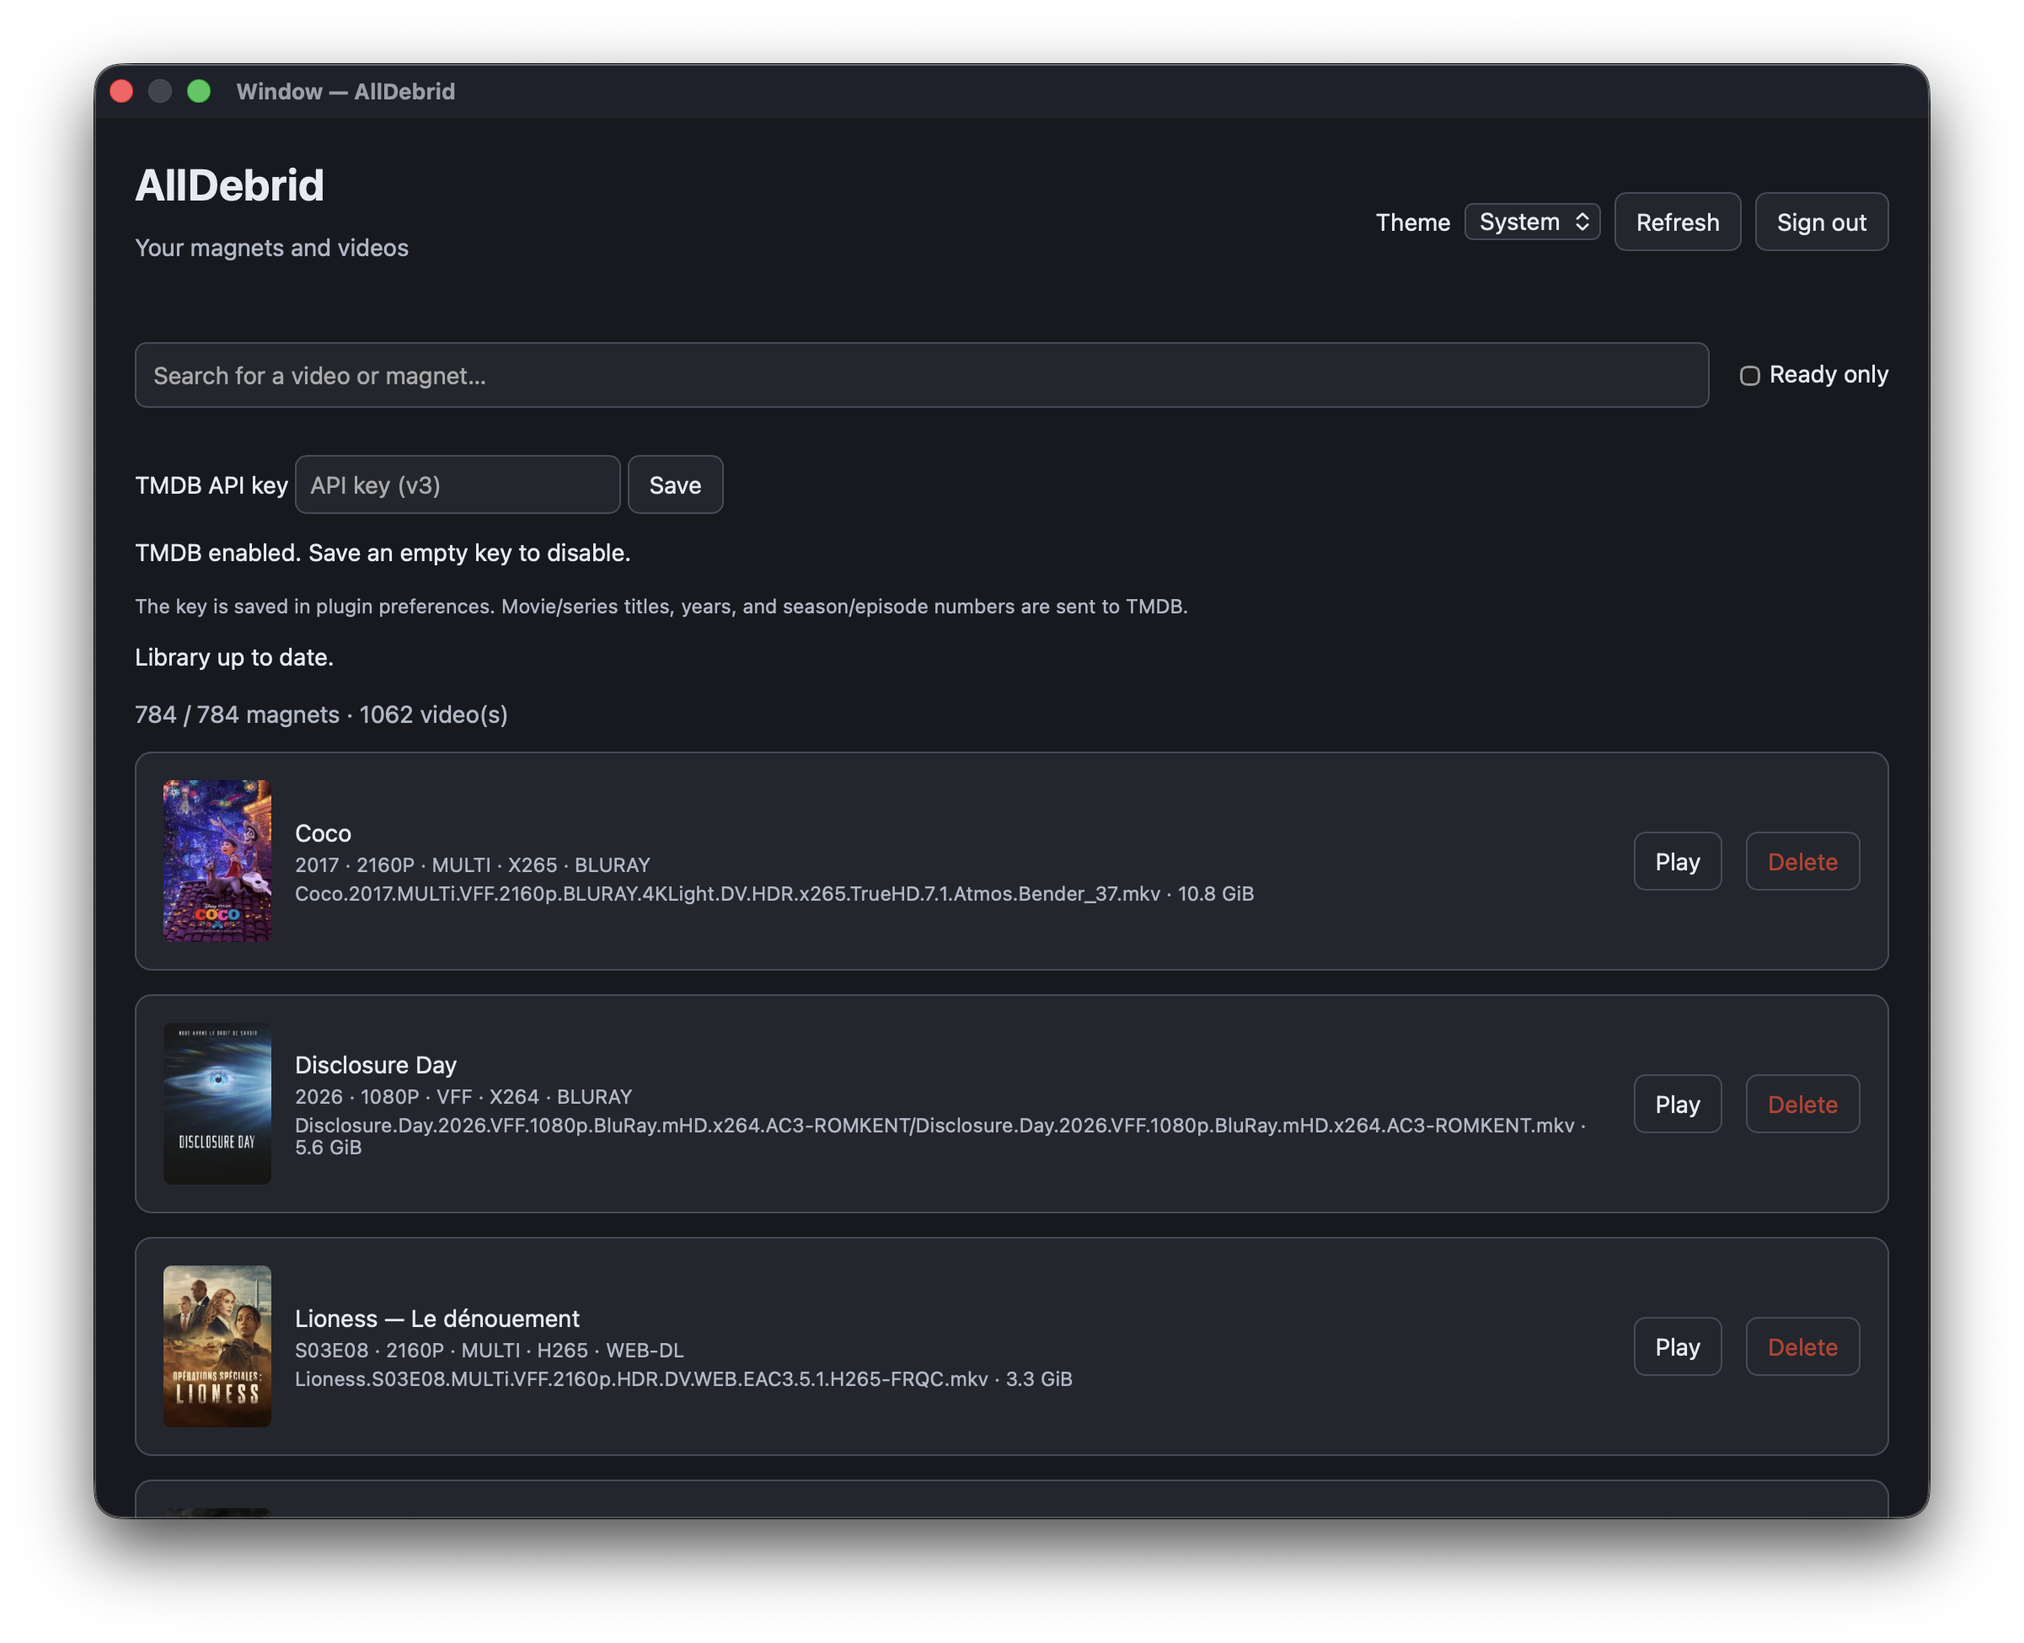
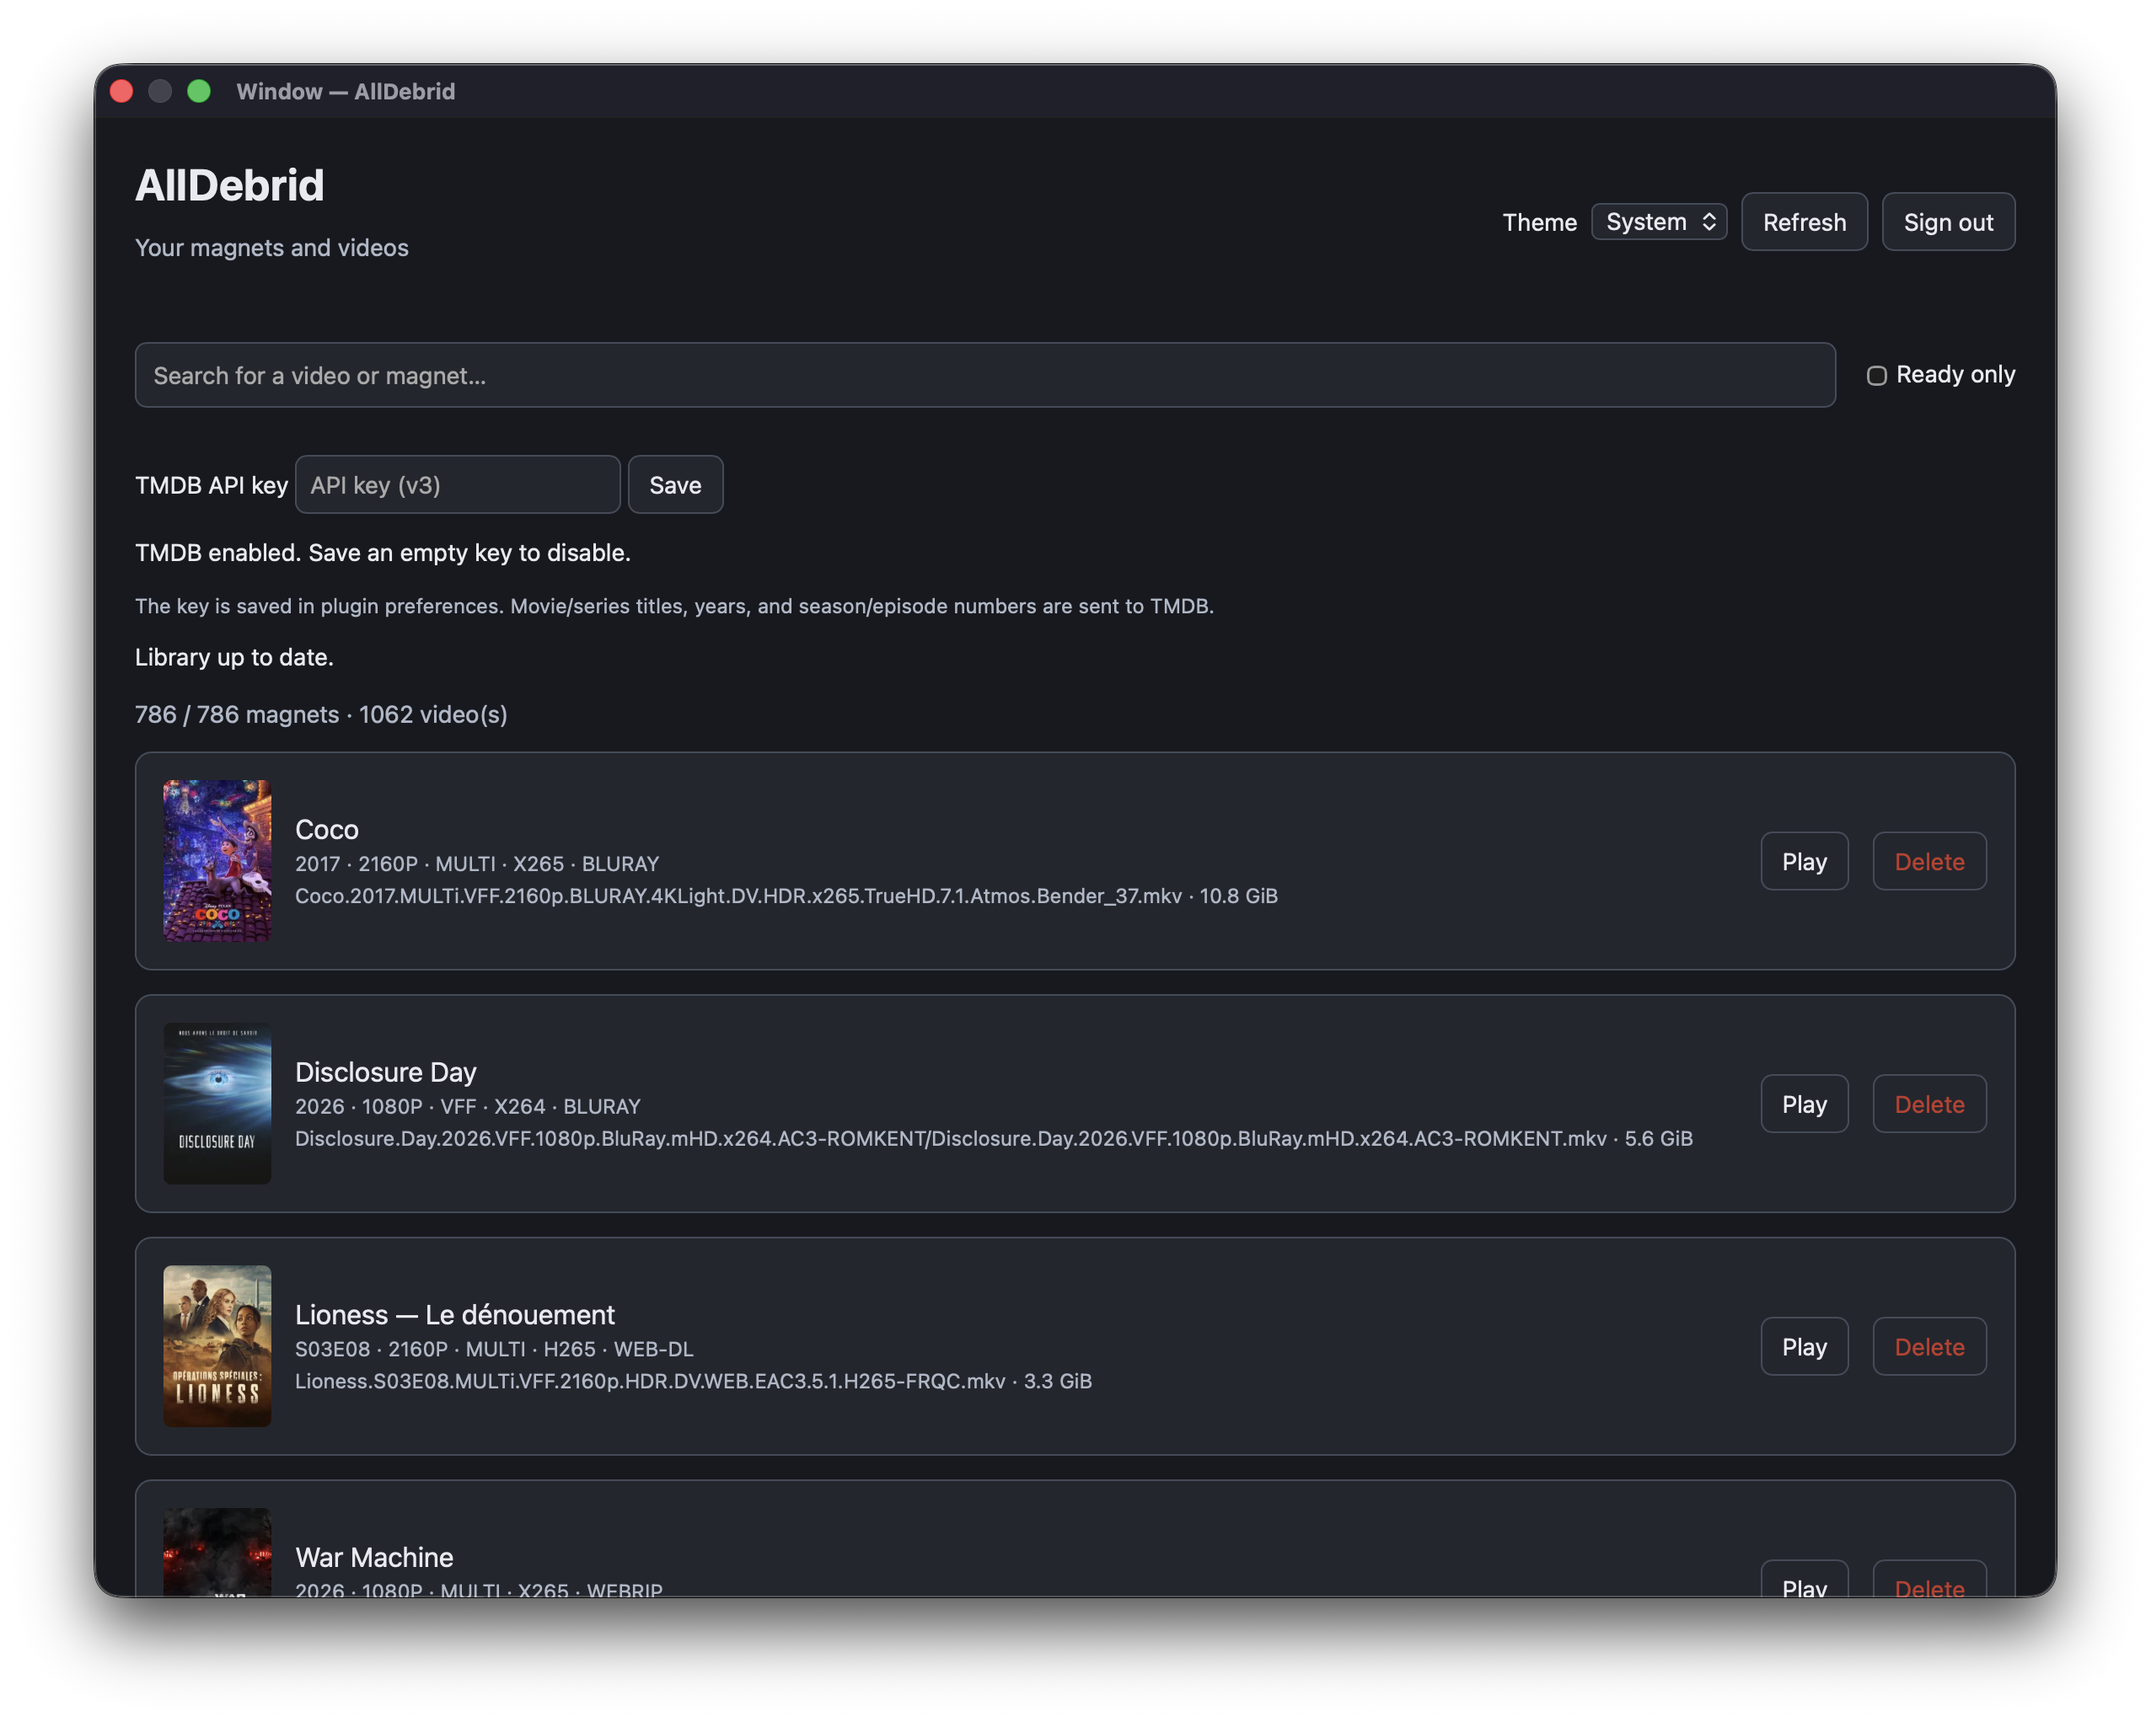
docs: simplify readme and refresh library screenshot

Changed region(s): [[0.0312, 0.0308, 0.9679, 0.9538], [0.8118, 0.7692, 0.843, 0.8308], [0.8118, 0.6154, 0.843, 0.6769]]

diff --git a/README.md b/README.md
@@ -1,57 +1,65 @@
 # AllDebrid for IINA
 
-A library with optional TMDB titles, episode names, and movie/series posters: all magnets in your account, videos in nested folders, search, a ready-only filter, file sizes, and playback in a new IINA window.
+Browse your AllDebrid videos and play them in IINA. Includes search, a ready-only filter, file details, and optional TMDB titles and posters.
 
 ![AllDebrid library in IINA](.github/alldebrid-library.png)
 
 ## Installation
 
-Requires IINA 1.4.0 or later on macOS with plugins enabled.
-
-1. Run `npm ci` then `npm run pack` from the repository directory (Node.js 24+ and Python 3 required). Open `dist/alldebrid.iinaplgz` to install it, or link `dist/plugin` with the IINA CLI below.
-2. Open **Plugins → AllDebrid → AllDebrid Library…**.
-3. Click **Sign in to AllDebrid**, then open the displayed link and confirm the PIN in your browser.
-4. The library loads automatically. Videos are displayed directly; click **Play**.
-
-**Refresh** loads a full status snapshot on first use, then merges incremental changes (including deletions) using AllDebrid’s session/counter protocol. A server-requested full sync replaces the snapshot. Each new sign-in starts a fresh sync session. Refresh caches file listings for unchanged ready magnets and loads new or changed listings in batches of 500. Transfer statistics do not invalidate cached files; other status changes do. Deleted or non-ready magnets lose their cached files. Full syncs preserve matching cached listings. The cache lasts only for the current sign-in session. Failed listings are retried on the next refresh. Magnets that are not ready remain visible but cannot be played. Search ignores case and accents and matches every entered word across magnet names, video paths, and extracted metadata. Video titles, year, season/episode, resolution, language, codec, and source are detected locally from filenames when recognizable; the original path stays visible. Optional titles and posters are retrieved from TMDB using the extracted title and year. TV episodes use the series title and poster, plus the episode name when available. Videos are identified by their file extensions; archives and ISO images are not scanned. The plugin does not add or restart magnets. **Delete** removes one video from the library. Individual removals are saved locally in plugin preferences and survive refresh, sign-out, and restarts. AllDebrid does not support deleting individual files: the magnet stays on AllDebrid until its last remaining video is deleted, then the plugin deletes the entire magnet (including any non-video files). Search and filters do not affect which videos count toward this deletion. If AllDebrid deletion fails, the last video remains available for retry.
-
-Your account must allow access to magnets and link unlocking. A direct link is generated for each playback request; delayed links are polled for up to ten minutes. Playback depends on file availability and the formats supported by IINA.
-
-**Theme** offers **System**, **Light**, and **Dark**. System follows the macOS appearance. Your choice is saved in the plugin preferences and preserved when signing out.
-
-## TMDB titles and posters
-
-Enter your TMDB **API key (v3)** in the library and click **Save**. Get a key from your [TMDB account settings](https://www.themoviedb.org/settings/api). Saving an empty key disables TMDB metadata and posters. The key is stored in plugin preferences, not in a secure keychain, and survives sign-out and restarts.
-
-A placeholder reserves the poster space while metadata and images load. The first TMDB search result is used, filtered by year when available. French titles are requested; the filename title is kept if no title is available. Series searches are shared across episodes, with a separate lookup for each episode name. Missing episodes keep the series title and poster. Filename parsing and matches may be imperfect. Results, including missing posters, are cached in memory; failed requests are retried on Refresh. TMDB errors do not block playback. Sign-out clears cached poster results.
-
-## Data and privacy
-
-The API key obtained through PIN authentication is kept **in memory for the current IINA session**. Sign in again after restarting IINA. **Sign out** clears the key and the displayed library and cancels pending operations; it does not revoke the key on AllDebrid. To revoke it, visit https://alldebrid.com/apikeys/.
-
-No telemetry. When enabled, TMDB receives movie/series titles and years, season/episode numbers, and poster images load from its image host. File listings and AllDebrid file links are kept only in memory for the current session. AllDebrid API requests go only to AllDebrid; IINA then streams the video from the direct link's host. IINA may retain playback URLs in its normal history.
-
-## Development
-
-Sources live in `src/` and use TypeScript. Vite builds CommonJS entries for IINA and a standalone browser script for the library window, targeting Safari 14. HTML and CSS are copied into `dist/plugin`. TypeScript and Biome extend [@yboyer/config](https://github.com/yboyer/config), with module and DOM settings adapted to this plugin.
-
-Filename parsing uses the npm dependency `parse-torrent-title` 3.0.1 (MIT). Vite bundles it into the plugin; no npm installation is needed by the end user. Its license is included in the archive. Local handlers also recognize VFQ, VFF, VF, VO, and AV1.
+Requires **IINA 1.4.0+** on macOS with plugins enabled, **Node.js 24+**, and **Python 3**.
 
 ```sh
 npm ci
-npm run lint       # Biome checks and formatting
-npm run typecheck  # TypeScript validation for sources and tests
-npm test           # Build and run source and plugin regression tests
-npm run pack       # Build dist/plugin and create dist/alldebrid.iinaplgz
+npm run pack
 ```
 
-On macOS, link the generated plugin directory for development. Rebuild after source changes:
+1. Open `dist/alldebrid.iinaplgz` to install the plugin.
+2. Open **Plugins → AllDebrid → AllDebrid Library…**.
+3. Click **Sign in to AllDebrid** and confirm the displayed PIN in your browser.
+4. Click **Play** on a ready video to open it in a new IINA window.
+
+Your AllDebrid account must allow access to magnets and link unlocking. Playback depends on file availability and IINA's supported formats.
+
+## Usage
+
+- **Refresh** updates your library. Videos in nested folders are included; archives and ISO images are not scanned.
+- **Search** matches magnet names, video paths, and metadata, ignoring case and accents.
+- **Ready only** hides videos that cannot yet be played.
+- **Theme** offers System, Light, and Dark and remembers your choice.
+- **Delete** hides a video locally, including after refresh or restart. Deleting a magnet's last remaining video **deletes the entire magnet from AllDebrid, including non-video files**. Search and filters do not affect this count. If deletion fails, the last video remains available for retry.
+
+The plugin does not add or restart magnets.
+
+### Optional TMDB metadata
+
+Enter a TMDB **API key (v3)** and click **Save** to enable titles, episode names, and posters. Get a key from your [TMDB account settings](https://www.themoviedb.org/settings/api). Save an empty key to disable it.
+
+Matches use information parsed from filenames and may be imperfect. Titles are requested in French. TMDB failures do not block playback.
+
+## Data and privacy
+
+- AllDebrid and TMDB API keys are stored in **plugin preferences, not a secure keychain**.
+- **Sign out** clears the saved AllDebrid key, displayed library, and pending operations. It keeps your TMDB key, theme, and hidden videos. To revoke the AllDebrid key, use [AllDebrid API key settings](https://alldebrid.com/apikeys/).
+- No telemetry. When enabled, TMDB receives titles, years, and season/episode numbers; posters load from its image host.
+- File listings and AllDebrid file links stay in memory for the session. IINA streams from the direct link's host and may retain playback URLs in its history.
+
+## Development
+
+TypeScript sources live in `src/`; build output goes to `dist/plugin`.
+
+```sh
+npm run lint       # Check code and formatting
+npm run typecheck  # Validate TypeScript
+npm test           # Build and run unit and regression tests
+npm run pack       # Build and create the plugin archive
+```
+
+On macOS, link the built plugin for development and rebuild after changes:
 
 ```sh
 /Applications/IINA.app/Contents/MacOS/iina-plugin link dist/plugin
-/Applications/IINA.app/Contents/MacOS/iina-plugin pack dist/plugin
 ```
 
-API documentation: https://docs.iina.io/ and https://docs.alldebrid.com/.
+Authentication and playback require manual testing on macOS with an AllDebrid account.
 
-Unit tests in `tests/*.test.mts` run directly with Node.js 24 against the TypeScript sources. Regression tests in `tests/*.test.cjs` exercise the compiled plugin and browser script with simulated IINA APIs and DOM. `npm test` builds the plugin before running both suites. Actual authentication and playback must be validated on macOS with an AllDebrid account; they cannot run in this Linux environment.
+API docs: [IINA](https://docs.iina.io/) · [AllDebrid](https://docs.alldebrid.com/)
